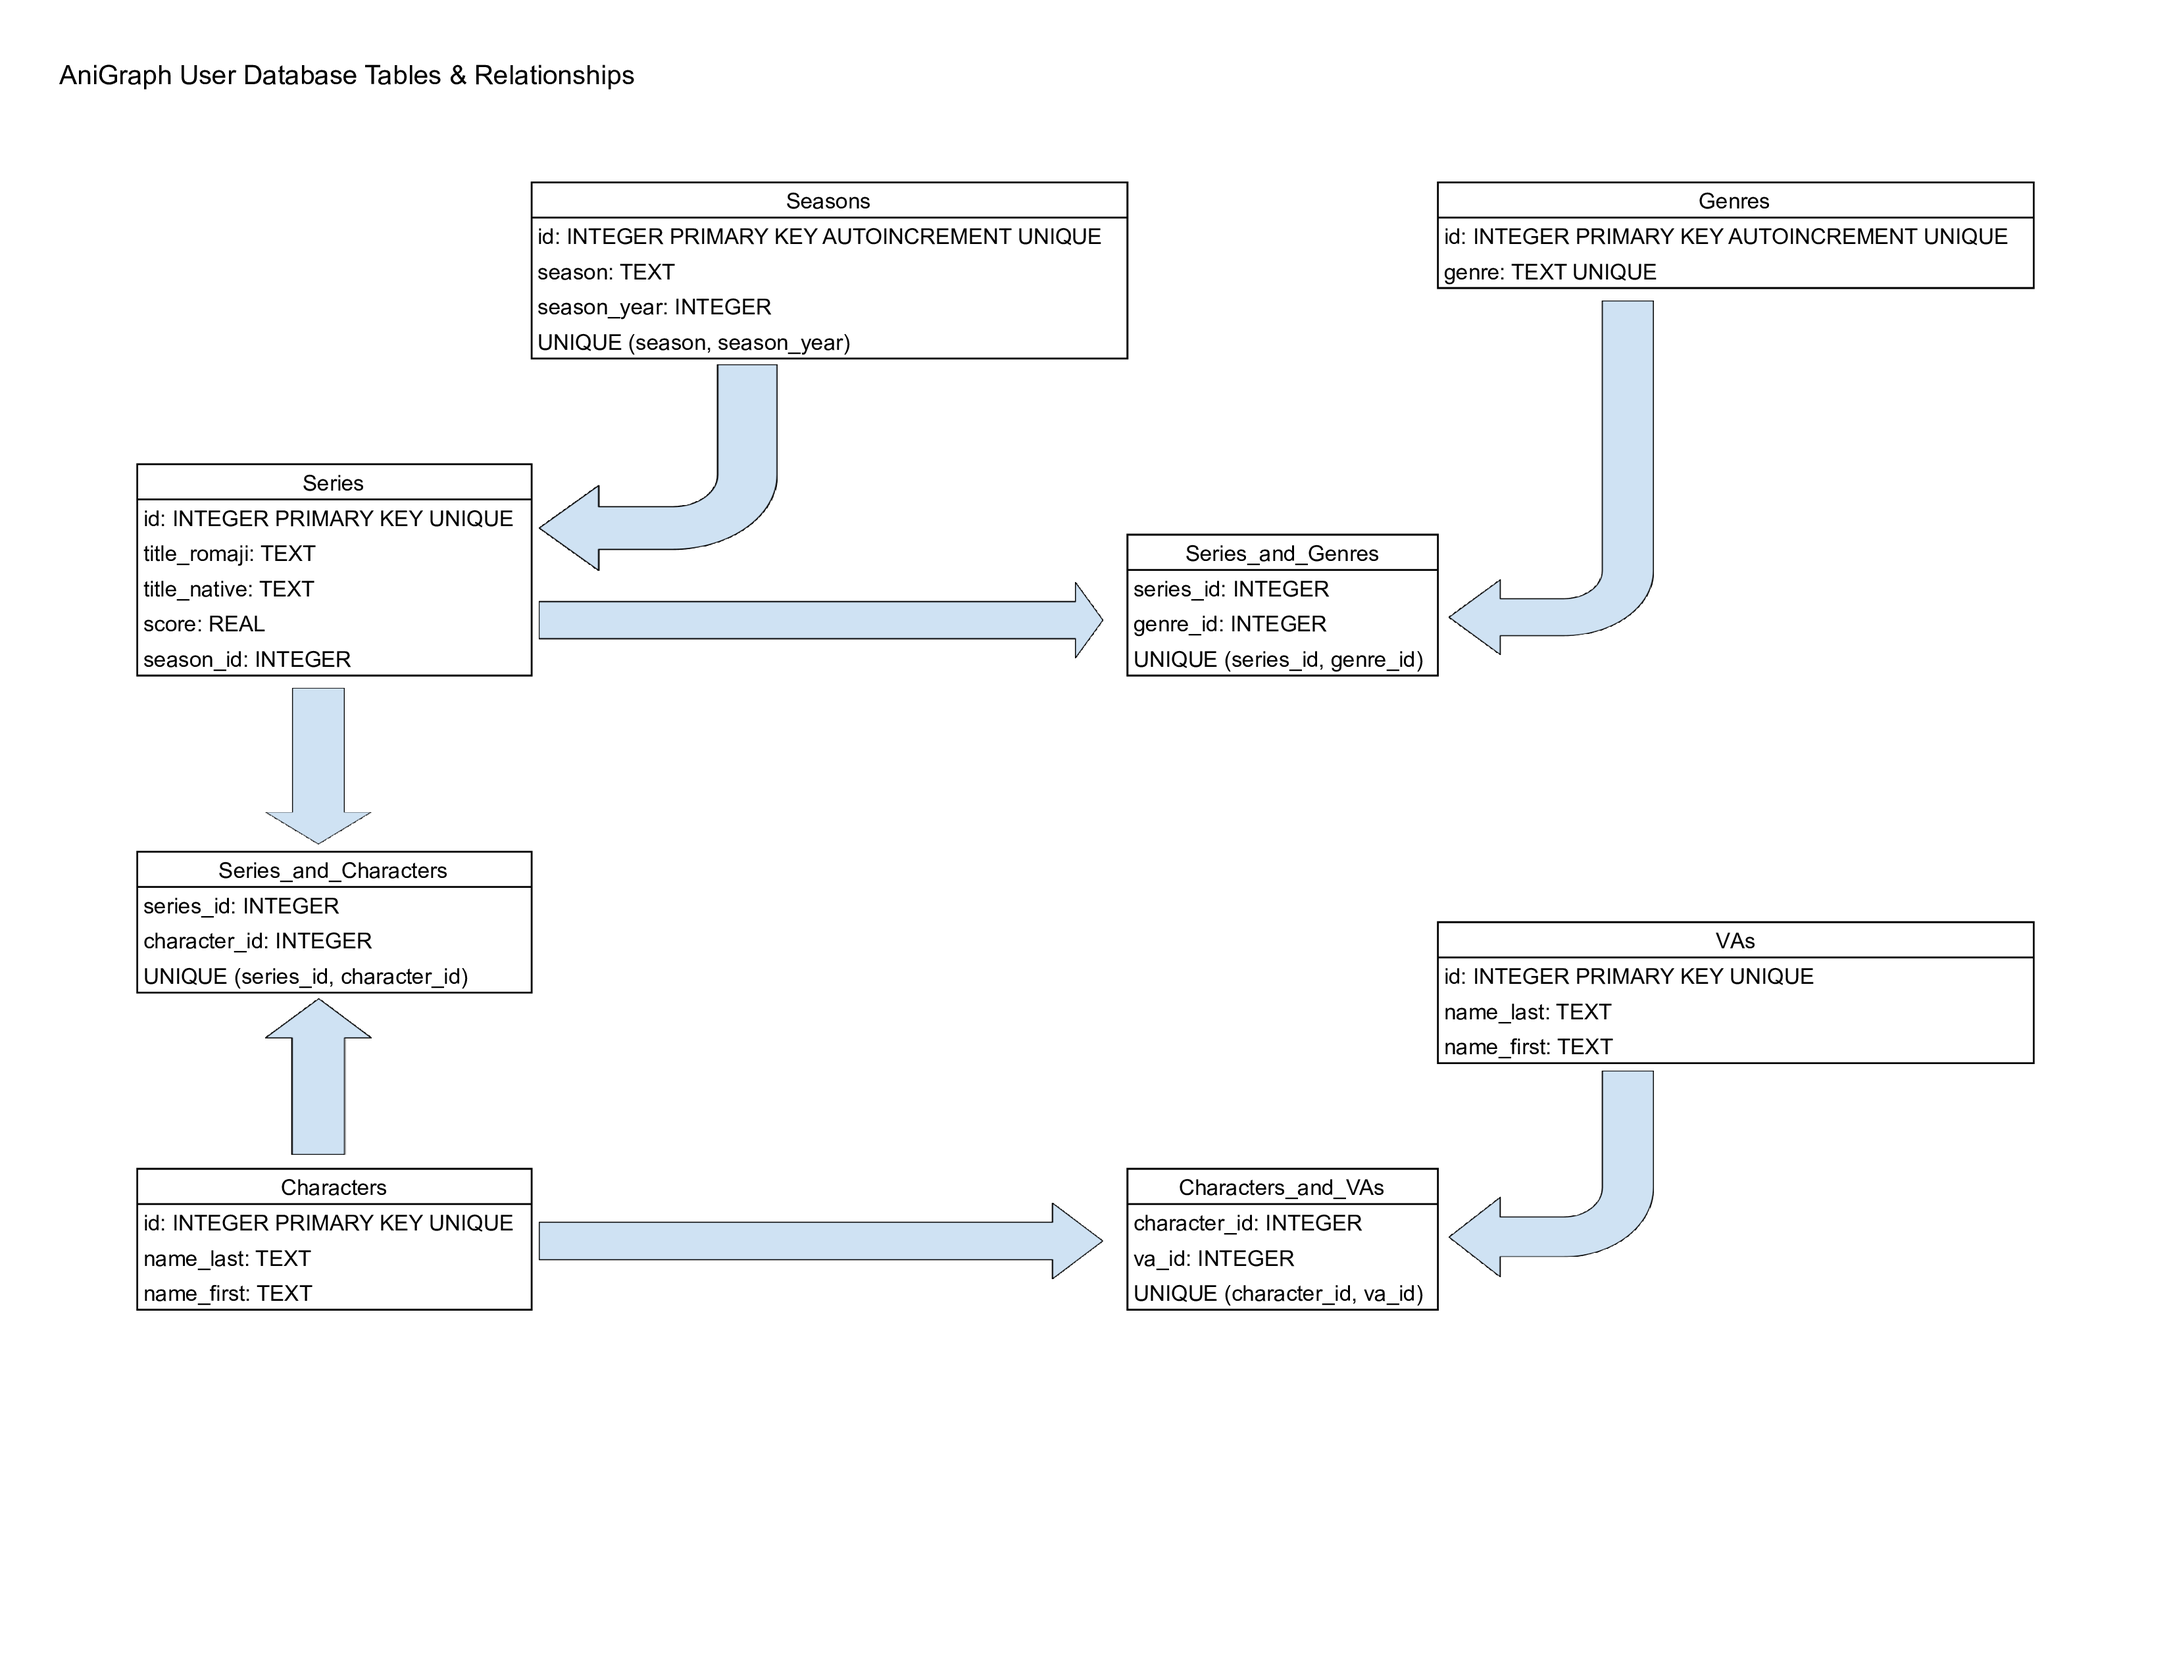
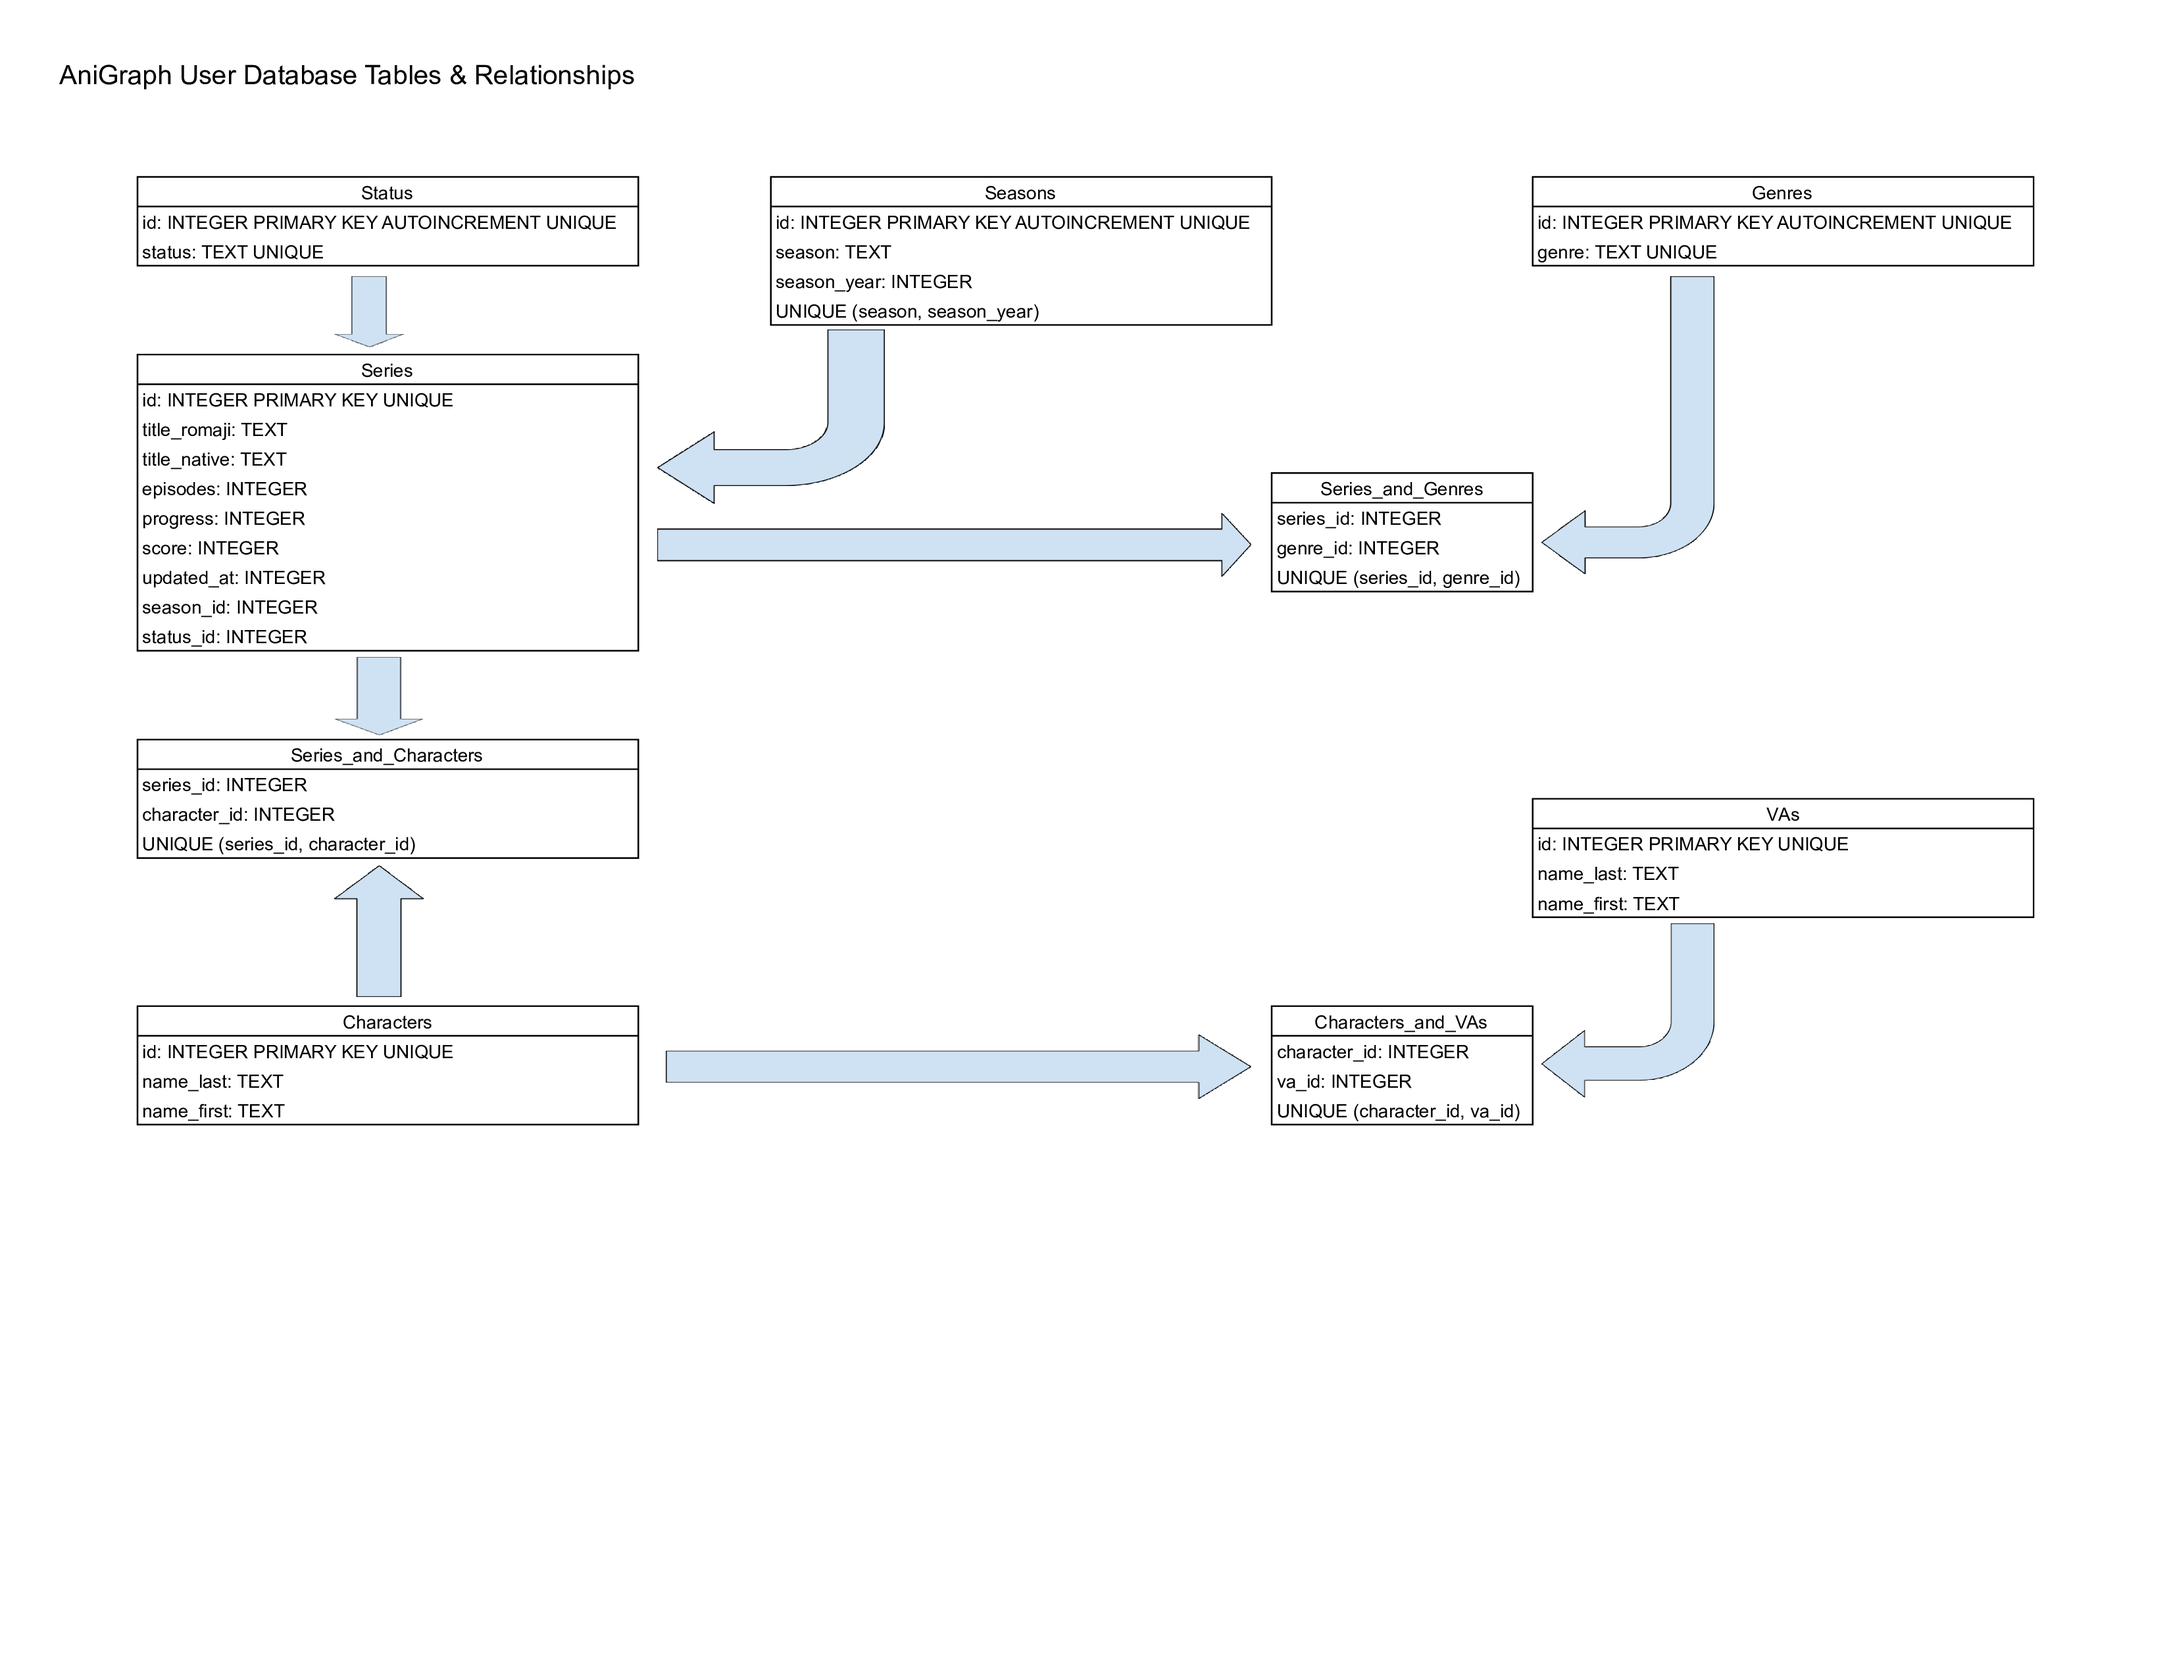
Implement sync function & add minor changes
The synching works, but the server returns entries with the same IDs
will need to change the schema again, I can't seem to find the
differences on these duplicates

Changed region(s): [[0.0624, 0.0929, 0.9364, 0.7745], [0.8115, 0.4647, 0.8427, 0.4957]]

diff --git a/src/headers.py b/src/headers.py
@@ -8,6 +8,7 @@
 # SPDX-License-Identifier: MIT
 #
 import os
+import time
 import sqlite3
 import queries
 import requests
@@ -113,17 +114,16 @@ def print_help():
 
 # Sync the database with upstream
 def sync_db(conf_path):
-    print('Initializing sync...')
+    print('Processing sync...')
     con = sqlite3.connect(os.path.join(conf_path, _db_name))
     cur = con.cursor()
 
-    # Get user name from the database
-    cur.execute(queries.get_user_name)
-
-    _page       = 1 # Current page
-    _perpage    = 5 # Items per page
-    _username   = cur.fetchone()[0]
-    _userdb     = _username + '.db' # Database for user's list
+    _chunk   	    = 1 # Current chunk
+    _sync_perchunk  = 10 # Items per chunk for normal sync
+    _full_perchunk  = 100 # Items per chunk for first  sync
+    _username       = cur.execute(queries.get_user_name).fetchone()[0]
+    _token          = cur.execute(queries.get_user_token).fetchone()[0]
+    _userdb         = _username + '.db' # Database for user's list
 
     con.close()
     con = sqlite3.connect(os.path.join(conf_path, _userdb))
@@ -134,14 +134,104 @@ def sync_db(conf_path):
     cur.executescript(queries.userdb_initialize)
     con.commit()
 
-    variables = {
-        'page'      : _page,
-        'perPage'   : _perpage,
-        'userName'  : _username
-    }
+    _db_last_updated = cur.execute(queries.userdb_get_last_updated).fetchone()[0]
+    if _db_last_updated is None: _perchunk = _full_perchunk # For big syncs, only the first time when no DB
+    else:                        _perchunk = _sync_perchunk # Checking small changes little by little
 
+    if _perchunk == _full_perchunk: print('No local data found. Trying a full sync.', end='', flush=True)
+    else: print('Trying a normal sync.', end='', flush=True)
+
+    count = 0
+    while True:
+        variables = {
+            'Chunk'     : _chunk,
+            'perChunk'  : _perchunk,
+            'userName'  : _username
+        }
+
+        request = requests.post(_api_url, json={'query': queries.get_user_list, 'variables': variables},
+                                headers = {'Authorization': 'Bearer ' + _token})
+        _upstream_last_updated =\
+        request.json()['data']['MediaListCollection']['lists'][0]['entries'][0]['media']['mediaListEntry']['updatedAt']
+        _has_nextchunk = request.json()['data']['MediaListCollection']['hasNextChunk']
+        _rate_limit_remaining = request.headers['X-RateLimit-Remaining']
+        _status_code = request.status_code
+
+        if int(_rate_limit_remaining) < 5: time.sleep(60) # Avoid going over the rate limit
+
+        if _status_code != 200:
+            print('Unhandled status code:', _status_code)
+            break
+
+        # Check if there has been any changes upstream before sync
+        if _perchunk == _sync_perchunk and _db_last_updated == _upstream_last_updated:
+            print('\nLocal data is up to date with upstream')
+            break
+
+        # Now we can sync, or pull the full list from upstream
+        for listx in request.json()['data']['MediaListCollection']['lists']:
+            for entry in listx['entries']:
+                entry = entry['media']
+                _id             = entry['id']
+                _episodes       = entry['episodes']
+                _title_romaji   = entry['title']['romaji']
+                _title_native   = entry['title']['native']
+                _season         = entry['season']
+                _season_year    = entry['seasonYear']
+                _genres         = entry['genres']
+                _score          = entry['mediaListEntry']['score']
+                _status         = entry['mediaListEntry']['status']
+                _progress       = entry['mediaListEntry']['progress']
+                _updated_at     = entry['mediaListEntry']['updatedAt']
+
+                # For debugging purposes
+                #print('id:', _id)
+                #print('episodes:', _episodes)
+                #print('title:', _title_romaji)
+                #print('title:', _title_native)
+                #print('season:', _season)
+                #print('season:', _season_year)
+                #print('genres:', _genres)
+                #print('score:', _score)
+                #print('status:', _status)
+                #print('progress:', _progress)
+                #print('updated:', _updated_at)
+                    #print('Entry number: %i\nID: %i\nUpdated at: %i\nTitle: %s\n日本語: %s\n'\
+                #      'Season: %s %i\nScore: %i\nStatus: %s\nProgress: %s\nEpisodes: %s\n'\
+                #      % (count, _id, _updated_at, _title_romaji, _title_native, _season, _season_year,
+                #         _score, _status, _progress, _episodes))
+
+                if _season is None:
+                    _season      = 'null_season'
+                    _season_year = 0
+
+                # Update the database
+                cur.execute(queries.userdb_insert_status,  (_status,))
+                cur.execute(queries.userdb_insert_seasons, (_season, _season_year))
+                for _genre in _genres: cur.execute(queries.userdb_insert_genres, (_genre,))
+
+                # Let's pull this entry's status_id, and season_id
+                _season_id = cur.execute(queries.userdb_get_season_id, (_season, _season_year)).fetchone()[0]
+                _status_id = cur.execute(queries.userdb_get_status_id, (_status,)).fetchone()[0]
+
+                cur.execute(queries.userdb_insert_series, (_id, _title_romaji, _title_native,
+                                                           _episodes, _progress, _score,
+                                                           _updated_at, _season_id, _status_id))
+                # Series and Genres connections
+                for _genre in _genres:
+                    _genre_id = cur.execute(queries.userdb_get_genre_id, (_genre,)).fetchone()[0]
+                    cur.execute(queries.userdb_insert_series_and_genres, (_id, _genre_id))
+
+                count += 1
+
+        # HDD too slow, moved commit here
+        con.commit()
+        print('.', end='', flush=True)
+        if not _has_nextchunk: break
+        else:  _chunk += 1
+        time.sleep(1)
     con.close()
-    pass
+    print('\nProcessed', count, 'entries')
 
 # Extract the data from the local database and generate the js/html files
 def export_stats(conf_path, save_path):

diff --git a/src/queries.py b/src/queries.py
@@ -19,7 +19,39 @@ get_user =\
   }
 }
 '''
+
 get_user_list =\
+'''
+query ($userName: String, $perChunk: Int, $Chunk: Int) {
+  MediaListCollection(userName: $userName, type:ANIME, perChunk: $perChunk,
+					  chunk:$Chunk, sort: UPDATED_TIME_DESC){
+    hasNextChunk
+    lists {
+      entries {
+        media {
+          id
+		  episodes
+          title {
+            romaji
+            native
+          }
+          season
+          seasonYear
+          genres
+          mediaListEntry {
+            updatedAt
+            score (format: POINT_100)
+			status
+			progress
+          }
+        }
+      }
+    }
+  }
+}
+'''
+
+_get_user_list =\
 '''
 {
   Page(page: $page, perPage:$perPage) {
@@ -55,16 +87,74 @@ CREATE TABLE IF NOT EXISTS auth_user (
     token TEXT
 )
 '''
+
 save_user_auth =\
 '''
 INSERT INTO auth_user (id, name, token) VALUES (?, ?, ?)
 '''
+
 get_user_name =\
 '''
 SELECT name FROM auth_user
 '''
+
+get_user_token =\
+'''
+SELECT token FROM auth_user
+'''
+
+userdb_get_last_updated =\
+'''
+SELECT MAX(updated_at) FROM Series
+'''
+
+userdb_get_season_id =\
+'''
+SELECT id FROM Seasons WHERE season = ? AND season_year = ?
+'''
+
+userdb_get_status_id =\
+'''
+SELECT id FROM Status WHERE status = ?
+'''
+
+userdb_get_genre_id =\
+'''
+SELECT id FROM Genres WHERE genre = ?
+'''
+
+userdb_insert_status =\
+'''
+INSERT OR IGNORE INTO Status (status) VALUES (?)
+'''
+
+userdb_insert_seasons =\
+'''
+INSERT OR IGNORE INTO Seasons (season, season_year) VALUES (?, ?)
+'''
+
+userdb_insert_genres =\
+'''
+INSERT OR IGNORE INTO Genres (genre) VALUES (?)
+'''
+
+userdb_insert_series =\
+'''
+INSERT OR REPLACE INTO Series (id, title_romaji, title_native, episodes, progress, score, updated_at,
+                               season_id, status_id) VALUES (?,?,?,?,?,?,?,?,?)
+'''
+
+userdb_insert_series_and_genres =\
+'''
+INSERT OR IGNORE INTO Series_and_Genres (series_id, genre_id) VALUES (?, ?)
+'''
+
 userdb_initialize =\
 '''
+CREATE TABLE IF NOT EXISTS Status (
+	id INTEGER PRIMARY KEY AUTOINCREMENT UNIQUE,
+	status          TEXT UNIQUE
+);
 CREATE TABLE IF NOT EXISTS Seasons (
     id INTEGER PRIMARY KEY AUTOINCREMENT UNIQUE,
     season          TEXT,
@@ -81,8 +171,12 @@ CREATE TABLE IF NOT EXISTS Series (
     id INTEGER PRIMARY KEY UNIQUE,
     title_romaji    TEXT,
     title_native    TEXT,
-    score REAL,
-    season_id INTEGER
+	episodes        INTEGER,
+	progress        INTEGER,
+    score           INTEGER,
+    updated_at      INTEGER,
+    season_id       INTEGER,
+    status_id       INTEGER
 );
 
 CREATE TABLE IF NOT EXISTS Characters (
